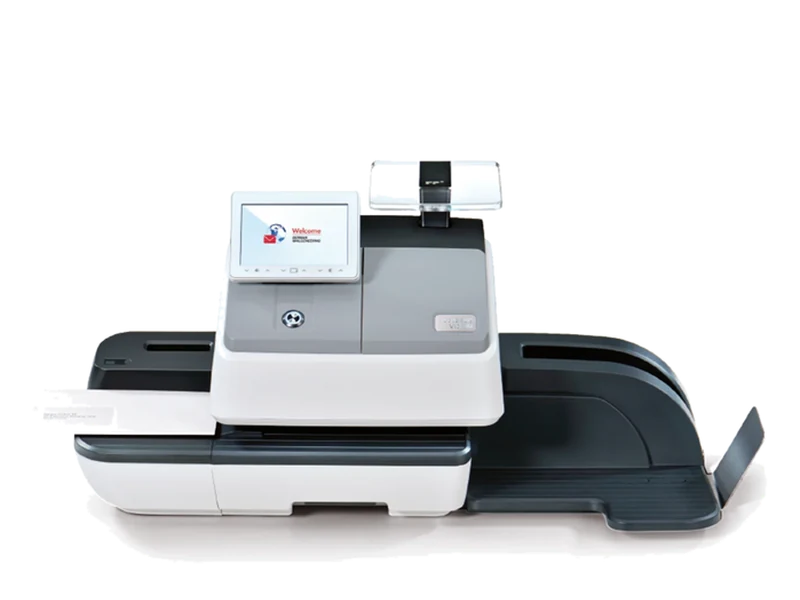
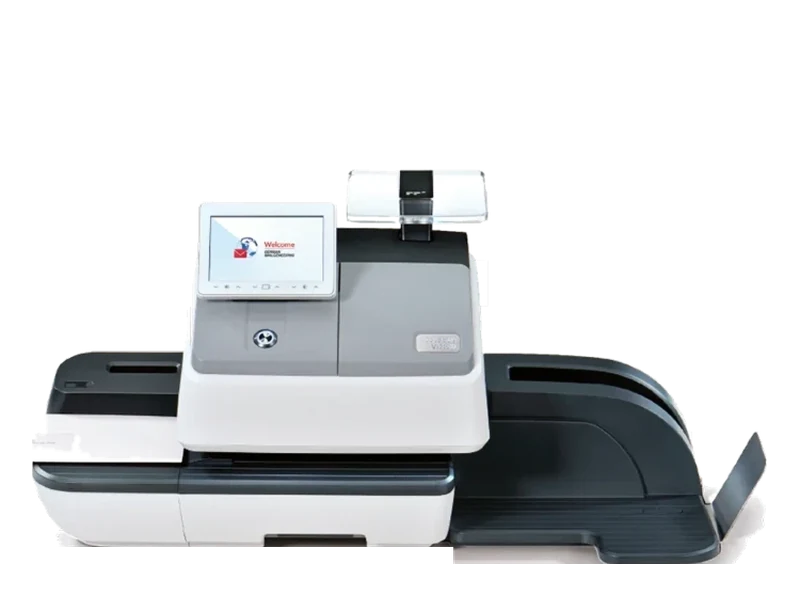
Herstellerfotos von Francotyp-Postalia für mini, Vision M2, Vision, Classic und One
Freigestellt, im gemeinsamen Maßstab für die Kacheln neu gebaut, Modellseiten schärfer.
Fusion behält ihr Foto, weil FP dafür dasselbe Bild wie bei der Vision zeigt.

Claude-Session: https://claude.ai/code/session_01HDS8izuvFa4JcAYEqFVMrJ

Changed region(s): [[0.0312, 0.24, 0.9688, 0.96], [0.6562, 0.75, 0.7188, 0.78]]

diff --git a/assets/kartuschen.js b/assets/kartuschen.js
@@ -10,18 +10,18 @@
 var SHOP='https://www.frankierfarbe.de';
 var CLASSIC_SETS;
 var MACHINES=[
-  {id:'mini', name:'PostBase mini', models:'', img:'img/mini.png', page:'/postbase-mini/', cat:'/c/postverarbeitung/francotyp-postalia/postbase-mini', sizes:[
+  {id:'mini', name:'PostBase mini', models:'', img:'img/mini.png?v=3', page:'/postbase-mini/', cat:'/c/postverarbeitung/francotyp-postalia/postbase-mini', sizes:[
     {size:'X-SMALL', sku:'580053305600', ml:'4 ml',  reach:700, path:'/p/tintenkartuschen-set-x-small-fuer-frankiermaschine-postbase-mini-francotyp-postalia'},
     {size:'SMALL',   sku:'580053303600', ml:'10 ml', reach:2000, path:'/p/tintenkartuschen-set-small-fuer-frankiermaschine-postbase-mini-francotyp-postalia'},
     {size:'MEDIUM',  sku:'580053304600', ml:'20 ml', reach:4000, path:'/p/tintenkartuschen-set-medium-fuer-frankiermaschine-postbase-mini-francotyp-postalia'}]},
-  {id:'m2', name:'PostBase Vision M2', models:'', img:'img/m2.png', page:'/postbase-vision-m2/', cat:'/c/postverarbeitung/francotyp-postalia/postbase-vision-m2', sizes:[
+  {id:'m2', name:'PostBase Vision M2', models:'', img:'img/m2.png?v=3', page:'/postbase-vision-m2/', cat:'/c/postverarbeitung/francotyp-postalia/postbase-vision-m2', sizes:[
     {size:'X-SMALL', sku:'580074895600', ml:'4 ml',  reach:700,  path:'/p/tintenkartusche-x-small-fuer-frankiermaschine-postbase-vision-m2-francotyp-postalia'},
     {size:'SMALL',   sku:'580074893600', ml:'10 ml', reach:2000, path:'/p/tintenkartusche-small-fuer-frankiermaschine-postbase-vision-m2-francotyp-postalia'},
     {size:'MEDIUM',  sku:'580074894600', ml:'20 ml', reach:4000, path:'/p/tintenkartusche-medium-fuer-frankiermaschine-postbase-vision-m2-francotyp-postalia'}]},
-  {id:'vision', name:'PostBase Vision', models:'Vision 35 · 50 · 70 · A120', img:'img/vision.png?v=2', page:'/postbase-vision/', cat:'/c/postverarbeitung/francotyp-postalia/postbase-vision-35-70', noQty:true, sizes:[
+  {id:'vision', name:'PostBase Vision', models:'Vision 35 · 50 · 70 · A120', img:'img/vision.png?v=3', page:'/postbase-vision/', cat:'/c/postverarbeitung/francotyp-postalia/postbase-vision-35-70', noQty:true, sizes:[
     {size:'LARGE', sku:'580059772400', ml:'40 ml', reach:11400, path:'/p/tintenkartusche-large-fuer-frankiermaschine-postbase-vision-35-bis-70-francotyp-postalia'}],
     only:'Für die PostBase Vision 35 bis 70 und die Vision A120 gibt es die Original-Kartusche nur noch in Größe LARGE. Wechseln Sie sie mindestens einmal im Jahr, damit die Tinte nicht eintrocknet.'},
-  {id:'classic', name:'PostBase Classic', models:'PostBase 30 · 45 · 65 · 100', img:'img/classic.png', page:'/postbase-classic/', cat:'/c/postverarbeitung/francotyp-postalia/postbase-30-100', sizes:CLASSIC_SETS=[
+  {id:'classic', name:'PostBase Classic', models:'PostBase 30 · 45 · 65 · 100', img:'img/classic.png?v=3', page:'/postbase-classic/', cat:'/c/postverarbeitung/francotyp-postalia/postbase-30-100', sizes:CLASSIC_SETS=[
     {size:'XS',     sku:'580052305600', ml:'2 × 4 ml',  reach:1500,  path:'/p/tintenkartuschen-set-xs-fuer-frankiermaschine-postbase-30-bis-100-francotyp-postalia'},
     {size:'SMALL',  sku:'580052303600', ml:'2 × 10 ml', reach:4000,  path:'/p/tintenkartuschen-set-small-fuer-frankiermaschine-postbase-30-bis-100-francotyp-postalia'},
     {size:'MEDIUM', sku:'580052304600', ml:'2 × 20 ml', reach:8000,  path:'/p/tintenkartuschen-set-medium-fuer-frankiermaschine-postbase-30-bis-100-francotyp-postalia'},
@@ -33,13 +33,13 @@ var MACHINES=[
     {size:'S',  sku:'580059893600', ml:'2 × 10 ml', reach:4000,  path:'/p/tintenkartuschen-set-s-fuer-frankiermaschine-postbase-fusion-35-bis-120-francotyp-postalia'},
     {size:'M',  sku:'580059894600', ml:'2 × 20 ml', reach:8000,  path:'/p/tintenkartuschen-set-m-fuer-frankiermaschine-postbase-fusion-35-bis-120-francotyp-postalia'},
     {size:'XL', sku:'580059892600', ml:'2 × 42 ml', reach:17000, path:'/p/tintenkartuschen-set-xl-fuer-frankiermaschine-postbase-fusion-35-bis-120-francotyp-postalia'}]},
-  {id:'one', name:'PostBase One', models:'One 120 · One 150', img:'img/one.png', page:'/postbase-one/', cat:'/c/postverarbeitung/francotyp-postalia/postbase-one-120-150', sizes:[],
+  {id:'one', name:'PostBase One', models:'One 120 · One 150', img:'img/one.png?v=3', page:'/postbase-one/', cat:'/c/postverarbeitung/francotyp-postalia/postbase-one-120-150', sizes:[],
     question:'Arbeitet Ihre PostBase One mit Kartuschen oder mit Tanksystem?',
     questionSub:'Beim Tanksystem steht ein großer Tintentank neben der Maschine und ist über einen Schlauch mit dem Druckkopf verbunden.', choice:[
-    {label:'Mit Kartuschen', hint:'Kartusche steckt in der Maschine', m:{id:'one', name:'PostBase One', models:'One 120 · One 150', img:'img/one.png', page:'/postbase-one/', sizes:[
+    {label:'Mit Kartuschen', hint:'Kartusche steckt in der Maschine', m:{id:'one', name:'PostBase One', models:'One 120 · One 150', img:'img/one.png?v=3', page:'/postbase-one/', sizes:[
       {size:'XL', sku:'580055318800', ml:'2 × 42 ml', reach:22000, path:'/p/tintenkartuschen-set-xl-fuer-frankiermaschine-postbase-one'}],
       only:'Für die PostBase One mit Kartuschen gibt es das Original-Kartuschen-Set XL. Wechseln Sie es mindestens einmal im Jahr, damit die Tinte nicht eintrocknet.'}},
-    {label:'Mit Tanksystem', hint:'Tintentank neben der Maschine', m:{id:'one-tank', name:'PostBase One mit Tanksystem', models:'One 120 · One 150', img:'img/one.png', page:'/postbase-one/', unit:'Tintentank', sizes:[
+    {label:'Mit Tanksystem', hint:'Tintentank neben der Maschine', m:{id:'one-tank', name:'PostBase One mit Tanksystem', models:'One 120 · One 150', img:'img/one.png?v=3', page:'/postbase-one/', unit:'Tintentank', sizes:[
       {size:'175 ml', sku:'580055314700', ml:'175 ml', reach:50000,  path:'/p/tintentank-175ml-fuer-frankiermaschine-postbase-one-120-und-150'},
       {size:'350 ml', sku:'580055314800', ml:'350 ml', reach:100000, path:'/p/tintentank-350-ml-fuer-frankiermaschine-postbase-one-120-und-150'}],
       addon:{name:'Druckkopf-Set für das Tanksystem', sku:'580055330900', reach:300000, path:'/p/druckkopf-set-fuer-frankiermaschine-postbase-one-zum-anschluss-an-das-tanksystem'}}}
@@ -53,7 +53,7 @@ var VOLUMES=[
   {label:'über 3.000',      hint:'Poststelle',   n:5000}
 ];
 // Kachelbild im gemeinsamen Maßstab (tools/kachel-bilder.py). breit: für die doppelt breite Kachel der One
-function kachelBild(id,breit){return '/img/kachel/'+(id==='one-tank'?'one':id)+(breit?'-breit':'')+'.webp'}
+function kachelBild(id,breit){return '/img/kachel/'+(id==='one-tank'?'one':id)+(breit?'-breit':'')+'.webp?v=3'}
 var MAX_MONTHS=12;    // Kartusche soll spätestens nach 12 Monaten leer sein (sonst trocknet die Tinte ein)
 
 // Empfehlung: größte Kartusche, die bei der angegebenen Menge in höchstens 12 Monaten leer ist.

diff --git a/ratgeber/farbe-leer-was-tun/index.html b/ratgeber/farbe-leer-was-tun/index.html
@@ -133,13 +133,13 @@
     <h2><span class="stepno">1</span>Modell erkennen</h2>
     <p class="sub">Tippen Sie auf das Gerät, das so aussieht wie&nbsp;Ihres.</p>
     <div class="mtiles">
-      <a class="mtile" href="/postbase-mini/"><span class="pic"><img src="/img/kachel/mini.webp" alt="PostBase mini" width="800" height="600" loading="lazy"></span><strong>PostBase&nbsp;mini</strong></a>
-      <a class="mtile" href="/postbase-vision-m2/"><span class="pic"><img src="/img/kachel/m2.webp" alt="PostBase Vision M2" width="800" height="600" loading="lazy"></span><strong>PostBase Vision&nbsp;M2</strong></a>
-      <a class="mtile" href="/postbase-vision/"><span class="pic"><img src="/img/kachel/vision.webp" alt="PostBase Vision" width="800" height="600" loading="lazy"></span><strong>PostBase&nbsp;Vision</strong><small>Vision 35&nbsp;·&nbsp;50&nbsp;·&nbsp;70&nbsp;·&nbsp;A120</small></a>
-      <a class="mtile" href="/postbase-classic/"><span class="pic"><img src="/img/kachel/classic.webp" alt="PostBase Classic" width="800" height="600" loading="lazy"></span><strong>PostBase&nbsp;Classic</strong><small>PostBase 30&nbsp;·&nbsp;45&nbsp;·&nbsp;65&nbsp;·&nbsp;100</small></a>
-      <a class="mtile" href="/postbase-insight/"><span class="pic"><img src="/img/kachel/insight.webp" alt="PostBase Insight" width="800" height="600" loading="lazy"></span><strong>PostBase&nbsp;Insight</strong></a>
-      <a class="mtile" href="/postbase-fusion/"><span class="pic"><img src="/img/kachel/fusion.webp" alt="PostBase Fusion" width="800" height="600" loading="lazy"></span><strong>PostBase&nbsp;Fusion</strong><small>Fusion 35&nbsp;·&nbsp;50&nbsp;·&nbsp;70&nbsp;·&nbsp;120</small></a>
-      <a class="mtile wide" href="/postbase-one/"><span class="pic"><img src="/img/kachel/one-breit.webp" alt="PostBase One" width="1600" height="600" loading="lazy"></span><strong>PostBase&nbsp;One</strong><small>One 120&nbsp;·&nbsp;One&nbsp;150</small></a>
+      <a class="mtile" href="/postbase-mini/"><span class="pic"><img src="/img/kachel/mini.webp?v=3" alt="PostBase mini" width="800" height="600" loading="lazy"></span><strong>PostBase&nbsp;mini</strong></a>
+      <a class="mtile" href="/postbase-vision-m2/"><span class="pic"><img src="/img/kachel/m2.webp?v=3" alt="PostBase Vision M2" width="800" height="600" loading="lazy"></span><strong>PostBase Vision&nbsp;M2</strong></a>
+      <a class="mtile" href="/postbase-vision/"><span class="pic"><img src="/img/kachel/vision.webp?v=3" alt="PostBase Vision" width="800" height="600" loading="lazy"></span><strong>PostBase&nbsp;Vision</strong><small>Vision 35&nbsp;·&nbsp;50&nbsp;·&nbsp;70&nbsp;·&nbsp;A120</small></a>
+      <a class="mtile" href="/postbase-classic/"><span class="pic"><img src="/img/kachel/classic.webp?v=3" alt="PostBase Classic" width="800" height="600" loading="lazy"></span><strong>PostBase&nbsp;Classic</strong><small>PostBase 30&nbsp;·&nbsp;45&nbsp;·&nbsp;65&nbsp;·&nbsp;100</small></a>
+      <a class="mtile" href="/postbase-insight/"><span class="pic"><img src="/img/kachel/insight.webp?v=3" alt="PostBase Insight" width="800" height="600" loading="lazy"></span><strong>PostBase&nbsp;Insight</strong></a>
+      <a class="mtile" href="/postbase-fusion/"><span class="pic"><img src="/img/kachel/fusion.webp?v=3" alt="PostBase Fusion" width="800" height="600" loading="lazy"></span><strong>PostBase&nbsp;Fusion</strong><small>Fusion 35&nbsp;·&nbsp;50&nbsp;·&nbsp;70&nbsp;·&nbsp;120</small></a>
+      <a class="mtile wide" href="/postbase-one/"><span class="pic"><img src="/img/kachel/one-breit.webp?v=3" alt="PostBase One" width="1600" height="600" loading="lazy"></span><strong>PostBase&nbsp;One</strong><small>One 120&nbsp;·&nbsp;One&nbsp;150</small></a>
     </div>
     <p class="help">Den genauen Namen finden Sie auf dem Typenschild, bei der Vision hinten neben dem Netzanschluss, bei der Fusion auf der Unterseite. Unsicher? <a href="tel:+49620496220">Rufen Sie uns an: <span class="nw">06204 /&nbsp;9622-0</span></a></p>
   </section>

diff --git a/postbase-vision/index.html b/postbase-vision/index.html
@@ -124,7 +124,7 @@
       <p class="lead"><span class="satz">Für die PostBase Vision 35, 50, 70 und A120 gibt es die Original-Kartusche nur noch in einer Größe:&nbsp;LARGE.</span> <span class="satz">Hier sehen Sie, wie lange sie bei Ihrer Briefmenge&nbsp;reicht.</span></p>
       <p class="recog"><b>So erkennen Sie die PostBase Vision:</b> Das große Farb-Touchdisplay sitzt vorn im hellen Gehäuse und schwenkt von selbst in Position, bedient wird es mit einem Stift. Darunter läuft eine lange, dunkle Briefbahn. Die Waage ist eingebaut, gedruckt wird mit einer&nbsp;Kartusche.</p>
     </div>
-    <img class="shot" src="/img/vision.png?v=2" alt="PostBase Vision von Francotyp-Postalia" width="643" height="355">
+    <img class="shot" src="/img/vision.png?v=3" alt="PostBase Vision von Francotyp-Postalia" width="690" height="371">
   </section>
 
   <section class="block" id="kartuschen">

diff --git a/postbase-vision-m2/index.html b/postbase-vision-m2/index.html
@@ -124,7 +124,7 @@
       <p class="lead"><span class="satz">Die PostBase Vision&nbsp;M2 hat eigene Original-Kartuschen in drei&nbsp;Größen.</span> <span class="satz">Hier sehen Sie alle mit Reichweite und Artikelnummer und welche Größe zu Ihrer Briefmenge&nbsp;passt.</span></p>
       <p class="recog"><b>So erkennen Sie die Vision&nbsp;M2:</b> Ein hellgraues, kastenförmiges Tischgerät mit großem Touchdisplay oben rechts, das sich von selbst in Position stellt, und dem FP-Logo vorn. Die Waage ist eingebaut, gedruckt wird mit einer&nbsp;Kartusche.</p>
     </div>
-    <img class="shot" src="/img/m2.png" alt="PostBase Vision M2 von Francotyp-Postalia" width="421" height="336">
+    <img class="shot" src="/img/m2.png?v=3" alt="PostBase Vision M2 von Francotyp-Postalia" width="719" height="571">
   </section>
 
   <section class="block" id="kartuschen">

diff --git a/postbase-one/index.html b/postbase-one/index.html
@@ -124,7 +124,7 @@
       <p class="lead"><span class="satz">Die PostBase One 120 und One 150 gibt es mit Kartuschen oder mit&nbsp;Tanksystem.</span> <span class="satz">Hier finden Sie die Original-Tinte für beide&nbsp;Ausführungen.</span></p>
       <p class="recog"><b>So erkennen Sie die PostBase One:</b> Eine lange, flache Maschine mit Briefzuführung auf der einen und Ablage auf der anderen Seite, das Touchdisplay sitzt in der Mitte. Sie druckt mit zwei Kartuschen oder mit dem&nbsp;Tanksystem.</p>
     </div>
-    <img class="shot" src="/img/one.png" alt="PostBase One von Francotyp-Postalia" width="448" height="177">
+    <img class="shot" src="/img/one.png?v=3" alt="PostBase One von Francotyp-Postalia" width="1041" height="263">
   </section>
 
   <section class="block" id="kartuschen">

diff --git a/tools/build.js b/tools/build.js
@@ -35,7 +35,7 @@ const one = byId('one');
 const oneCart = one.choice[0].m, oneTank = one.choice[1].m;
 
 // Bildmaße (für width/height, gegen Springen beim Laden)
-const IMG = { mini: [340, 337], m2: [421, 336], one: [448, 177], classic: [448, 265], vision: [643, 355], fusion: [447, 242], insight: [448, 282] };
+const IMG = { mini: [635, 548], m2: [719, 571], one: [1041, 263], classic: [722, 387], vision: [690, 371], fusion: [447, 242], insight: [448, 282] };
 
 // ── Helfer ──────────────────────────────────────────────────────────────
 const esc = s => String(s).replace(/&/g, '&amp;').replace(/</g, '&lt;').replace(/>/g, '&gt;').replace(/"/g, '&quot;');

diff --git a/postbase-mini/index.html b/postbase-mini/index.html
@@ -124,7 +124,7 @@
       <p class="lead"><span class="satz">Die PostBase mini ist die kleinste PostBase von&nbsp;Francotyp-Postalia.</span> <span class="satz">Hier sehen Sie alle Original-Kartuschen dafür und welche Größe zu Ihrer Briefmenge&nbsp;passt.</span></p>
       <p class="recog"><b>So erkennen Sie die PostBase mini:</b> Ein kompaktes Tischgerät mit kleinem Display und beleuchteten Tasten oben und dem FP-Logo vorn am Gehäuse. Sie arbeitet mit einer&nbsp;Kartusche.</p>
     </div>
-    <img class="shot" src="/img/mini.png" alt="PostBase mini von Francotyp-Postalia" width="340" height="337">
+    <img class="shot" src="/img/mini.png?v=3" alt="PostBase mini von Francotyp-Postalia" width="635" height="548">
   </section>
 
   <section class="block" id="kartuschen">

diff --git a/postbase-classic/index.html b/postbase-classic/index.html
@@ -124,7 +124,7 @@
       <p class="lead"><span class="satz">Die PostBase 30, 45, 65 und 100 nutzen dieselben Original-Kartuschen-Sets.</span> <span class="satz">Hier sehen Sie alle vier Größen und welche zu Ihrer Briefmenge&nbsp;passt.</span></p>
       <p class="recog"><b>So erkennen Sie die PostBase 30 bis 100:</b> Ein helles Gehäuse mit schwarz umrandetem Display und flacher Auflage obenauf, darunter eine dunkle Briefbahn mit&nbsp;Ablage.</p>
     </div>
-    <img class="shot" src="/img/classic.png" alt="PostBase Classic von Francotyp-Postalia" width="448" height="265">
+    <img class="shot" src="/img/classic.png?v=3" alt="PostBase Classic von Francotyp-Postalia" width="722" height="387">
   </section>
 
   <section class="block" id="kartuschen">
